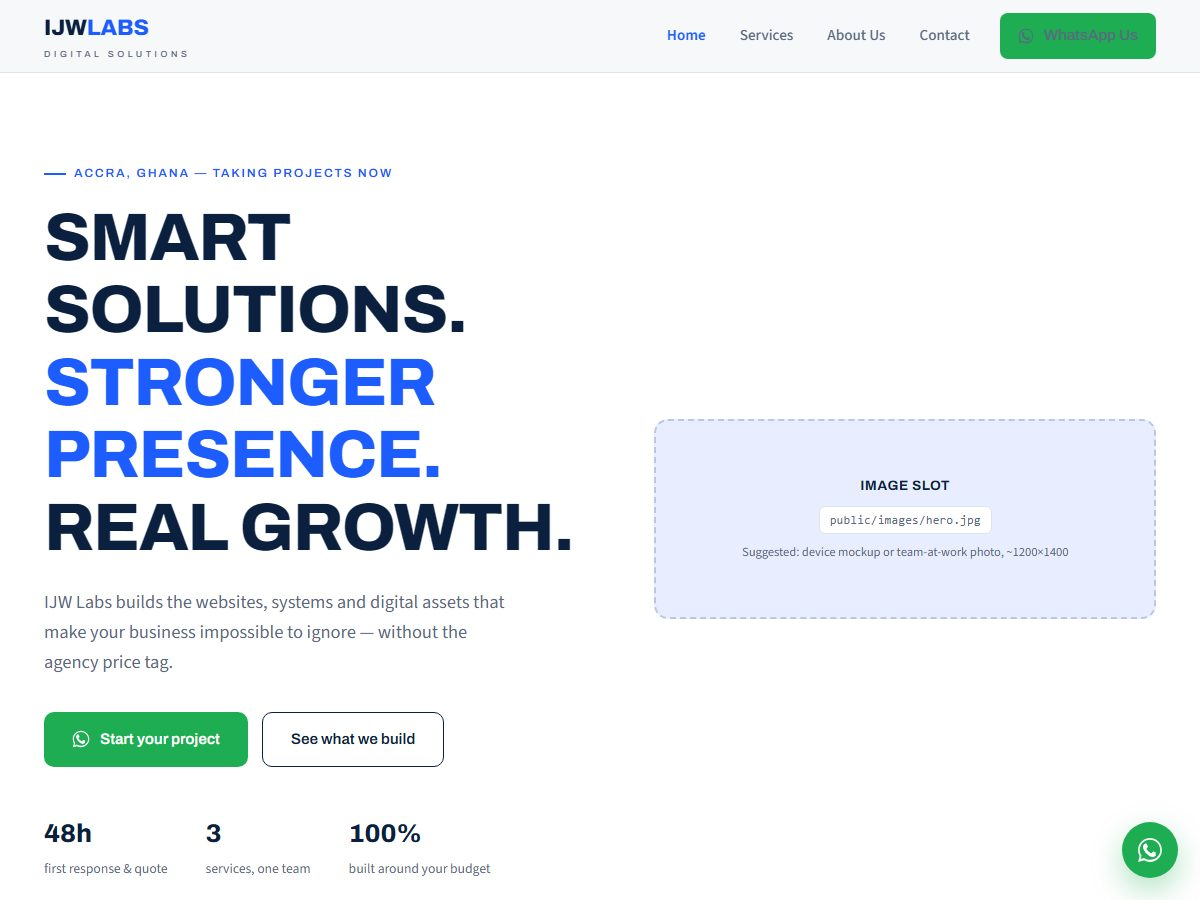
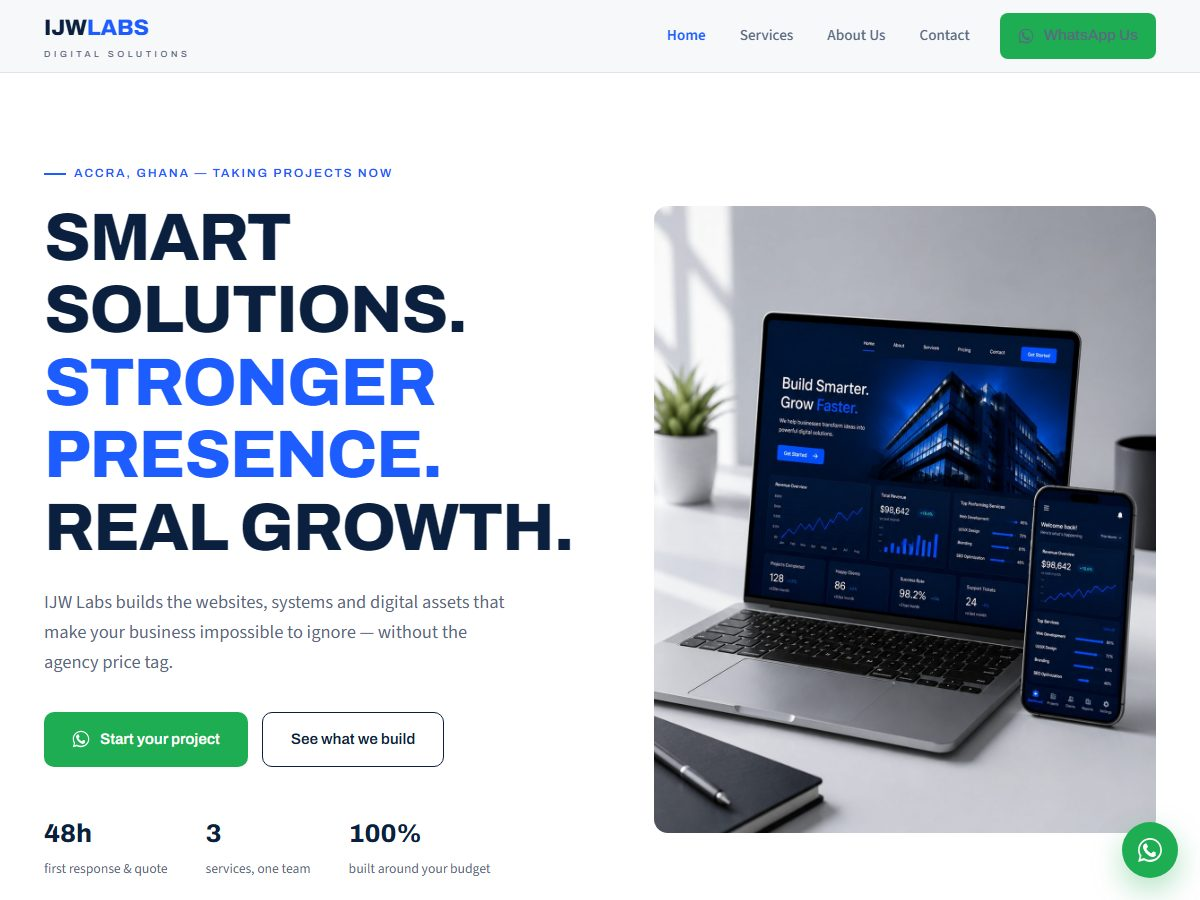
Fix image paths under GitHub Pages base; founder roles and bios
ImageSlot used absolute /images/ which 404d under the /ijw-labs-site/
base path in production. Now uses import.meta.env.BASE_URL. Titles:
Isaac CEO, Judah COO, Wisdom Creative Director.

Changed region(s): [[0.5242, 0.2178, 0.9867, 0.9333]]

diff --git a/src/content.js b/src/content.js
@@ -15,20 +15,20 @@ export const FOUNDERS = [
   {
     img: "founder-1.jpg",
     name: "Isaac Asamoah",
-    role: "Co-founder",          // ← EDIT when roles are decided, e.g. "Lead Developer"
-    bio: "",                     // ← EDIT one line: what he builds + one human detail
+    role: "Co-founder & CEO",
+    bio: "Sets the vision and owns every client relationship — the first voice you hear at IJW.",
   },
   {
     img: "founder-2.jpg",
     name: "Judah B. Amanor",
-    role: "Co-founder",
-    bio: "",
+    role: "Co-founder & COO",
+    bio: "Runs the engine room — timelines, delivery and quality control on every project.",
   },
   {
     img: "founder-3.jpg",
     name: "Wisdom Dzanado",
-    role: "Co-founder",
-    bio: "",
+    role: "Co-founder & Creative Director",
+    bio: "Owns the visuals — media, brand and everything that makes IJW work look the part.",
   },
 ];
 

diff --git a/src/components/ImageSlot.jsx b/src/components/ImageSlot.jsx
@@ -12,7 +12,7 @@ export default function ImageSlot({ file, alt, hint, className = "" }) {
           {hint && <span style={{ fontSize: "0.78rem" }}>{hint}</span>}
         </div>
       ) : (
-        <img src={`/images/${file}`} alt={alt} loading="lazy" onError={() => setMissing(true)} />
+        <img src={`${import.meta.env.BASE_URL}images/${file}`} alt={alt} loading="lazy" onError={() => setMissing(true)} />
       )}
     </div>
   );
